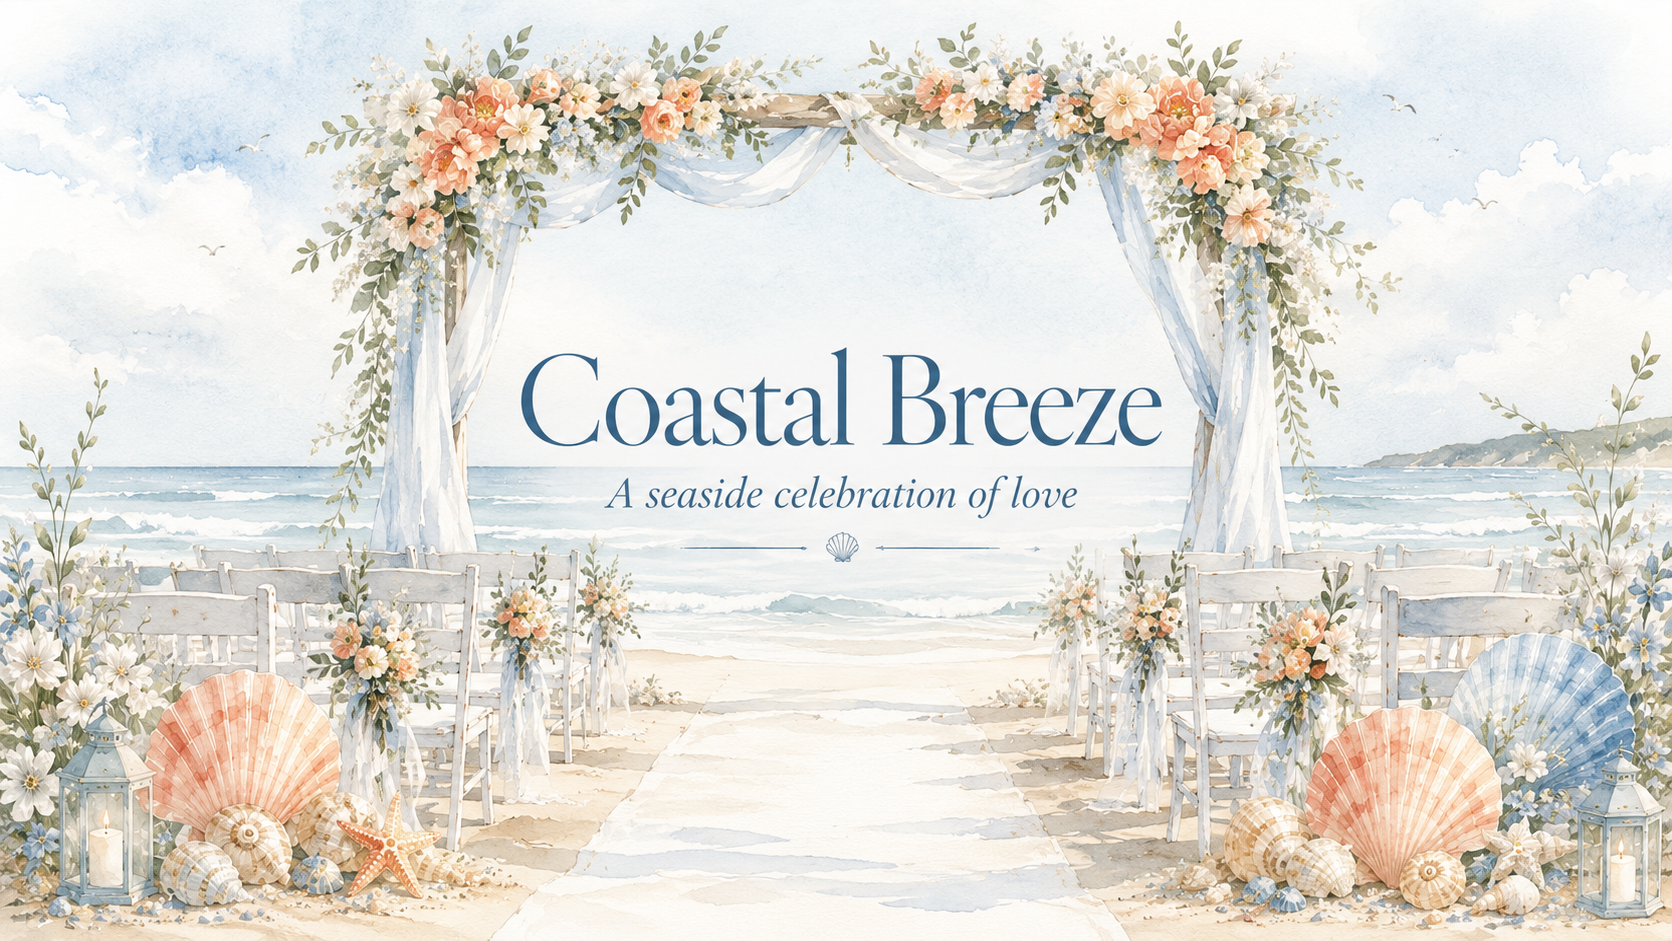
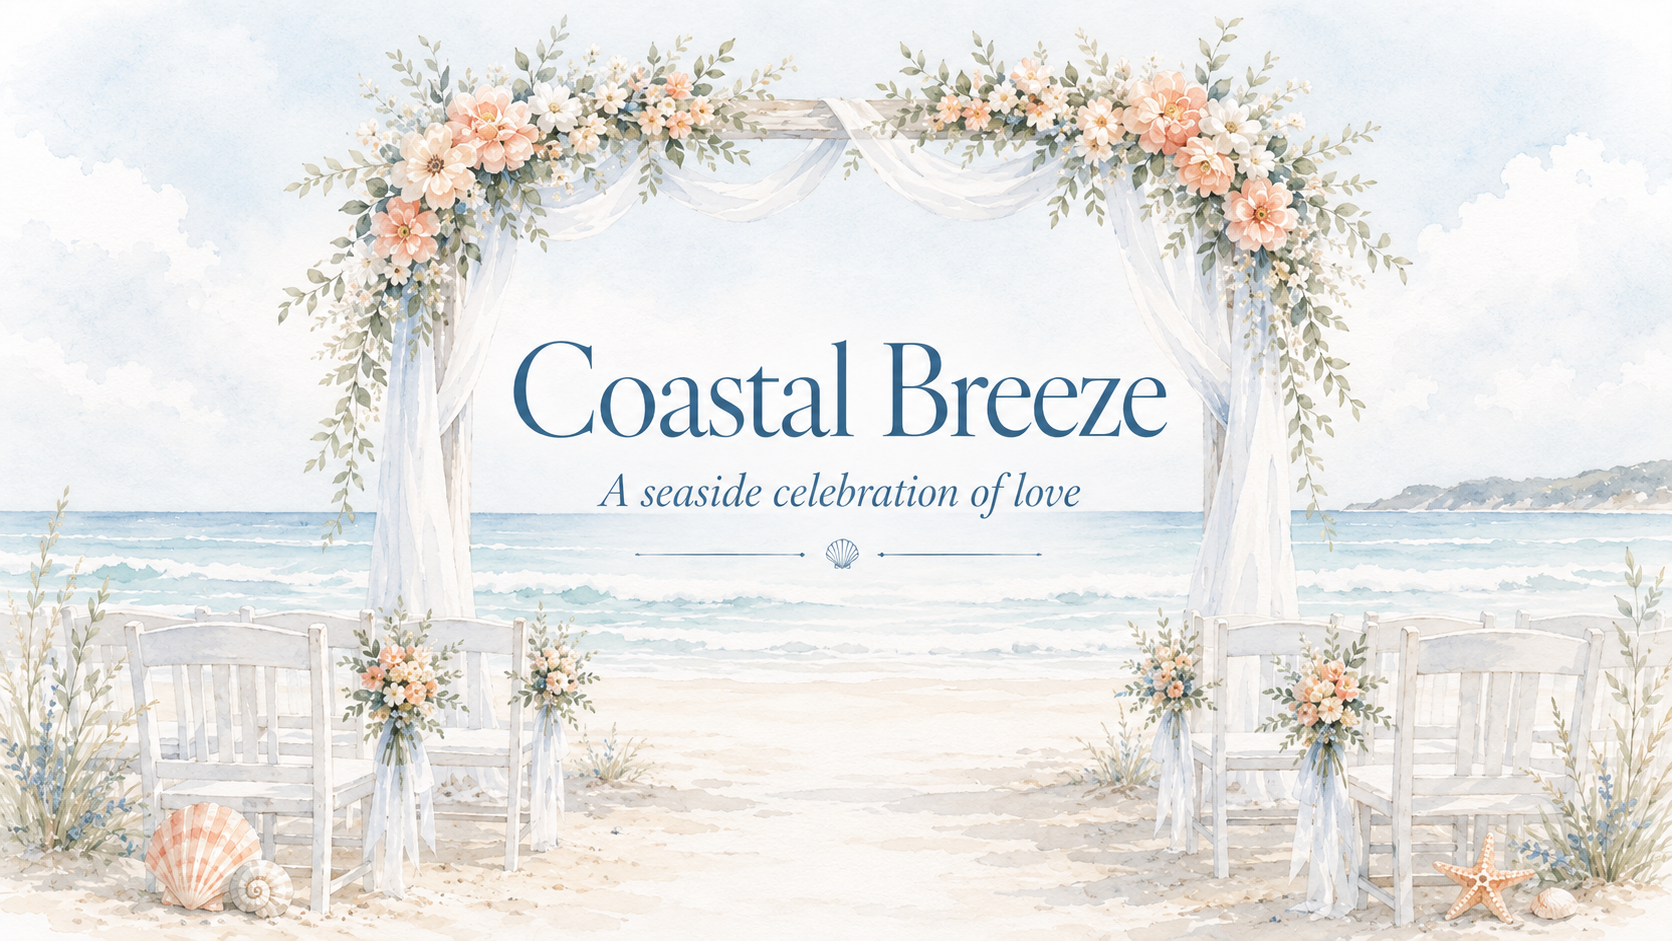
Standardize invitation thumbnails to 16:9 across order flow
Repoint design, pricing, and order flow previews to the new uniform
16:9 thumbnails and update the order flow step 3/4 preview cards to
display them without cropping.

diff --git a/src/styles/OrderFlow.css b/src/styles/OrderFlow.css
@@ -362,10 +362,11 @@
   margin-bottom: 32px;
 }
 .selected-template-banner img {
-  width: 80px;
-  height: 56px;
+  width: 100px;
+  aspect-ratio: 1672 / 941;
   object-fit: cover;
   border-radius: var(--radius-sm);
+  flex-shrink: 0;
 }
 .selected-template-banner h3 {
   font-family: var(--font-display);
@@ -1357,16 +1358,11 @@
   gap: 16px;
 }
 .review-template img {
-  width: 80px;
-  height: 80px;
+  width: 104px;
+  aspect-ratio: 1672 / 941;
   border-radius: 10px;
   object-fit: cover;
-}
-/* The Boarding Pass thumbnail is a wide landscape image — contain it so the
-   whole boarding pass shows instead of being cropped to a square. */
-.review-template img.review-img--wide {
-  object-fit: contain;
-  background: #e3f2fd;
+  flex-shrink: 0;
 }
 .review-template strong {
   display: block;
@@ -1451,7 +1447,7 @@
 .protected-preview-card {
   width: 100%;
   display: grid;
-  grid-template-columns: 82px minmax(0, 1fr) auto;
+  grid-template-columns: 132px minmax(0, 1fr) auto;
   gap: 15px;
   align-items: center;
   text-align: left;
@@ -1473,10 +1469,10 @@
 
 .protected-preview-thumb {
   position: relative;
-  width: 82px;
-  aspect-ratio: 390 / 844;
+  width: 132px;
+  aspect-ratio: 1672 / 941;
   overflow: hidden;
-  border-radius: 13px;
+  border-radius: 12px;
   background: var(--bg-alt);
   border: 1px solid var(--border-light);
   box-shadow: inset 0 0 0 3px rgba(255, 255, 255, 0.72);
@@ -1489,25 +1485,14 @@
   object-fit: cover;
 }
 
-/* Boarding Pass preview is a wide landscape thumbnail — match the frame to its
-   aspect ratio so the whole boarding pass shows instead of a cropped slice. */
-.protected-preview-thumb.protected-preview-thumb--wide {
-  aspect-ratio: 1672 / 941;
-  align-self: center;
-  background: #e3f2fd;
-}
-.protected-preview-thumb img.review-img--wide {
-  object-fit: contain;
-}
-
 .protected-preview-thumb-watermark {
   position: absolute;
-  inset: auto -24px 30px -24px;
-  padding: 4px 0;
-  transform: rotate(-24deg);
-  background: rgba(255, 255, 255, 0.58);
-  color: rgba(45, 42, 38, 0.48);
-  font-size: 0.56rem;
+  inset: auto -24px 8px -24px;
+  padding: 3px 0;
+  transform: rotate(-12deg);
+  background: rgba(255, 255, 255, 0.62);
+  color: rgba(45, 42, 38, 0.5);
+  font-size: 0.54rem;
   font-weight: 700;
   letter-spacing: 0.1em;
   text-align: center;
@@ -2137,7 +2122,7 @@
   margin: 4px 0 18px;
   border-radius: 12px;
   overflow: hidden;
-  aspect-ratio: 16 / 10;
+  aspect-ratio: 1672 / 941;
   background: var(--bg-alt);
 }
 .payment-summary-image img {
@@ -2469,8 +2454,8 @@
   .progress-line { max-width: 36px; }
   .review-grid { grid-template-columns: 1fr; }
   .review-section { padding: 18px 16px; }
-  .protected-preview-card { grid-template-columns: 80px minmax(0, 1fr); }
-  .protected-preview-thumb { width: 80px; }
+  .protected-preview-card { grid-template-columns: 116px minmax(0, 1fr); }
+  .protected-preview-thumb { width: 116px; }
   .protected-preview-action {
     grid-column: 1 / -1;
     width: 100%;

diff --git a/src/pages/OrderFlow.jsx b/src/pages/OrderFlow.jsx
@@ -8,10 +8,11 @@ import registry from '../invitations/registry';
 import { DEFAULT_INVITATION_FONT, INVITATION_FONT_OPTIONS, getInvitationFontOption, normalizeInvitationFont } from '../invitations/fontOptions';
 import { DEFAULT_PRICING_TIER, PRICING_TIERS, getPricingTier, normalizePricingTier, tierAllows, getTierDisabledFields } from '../lib/pricingTiers';
 import { migrateGuestPolicyFields } from '../lib/guestPolicyFields';
-import coastalSplashPreview from '../assets/coastal/coastal-closed-door.webp';
-import fountainHero1Preview from '../assets/Fountain Reverie/thumbnail1.png';
-import fountainHero2Preview from '../assets/Fountain Reverie/thumbnail2.png';
-import boardingPassPreview from '../assets/boardingPass/thumbnail2.png';
+import coastalSplashPreview from '../assets/coastal/thumbnail.png';
+import fountainHero1Preview from '../assets/Fountain Reverie/thumbnail3.png';
+import fountainHero2Preview from '../assets/Fountain Reverie/thumbnail4.png';
+import boardingPassPreview from '../assets/boardingPass/thumbnail.png';
+import GardenPavilionPreview from '../assets/gardenPavilion/thumbnail.png';
 import '../styles/OrderFlow.css';
 
 const API = import.meta.env.VITE_API_URL || '/api';
@@ -178,7 +179,7 @@ const TEMPLATE_PREVIEW_IMAGES = {
   'coastal-breeze': coastalSplashPreview,
   'fountain-reverie-v1': fountainHero1Preview,
   'fountain-reverie-v2': fountainHero2Preview,
-  'gazebo-garden': '/assets/gazebo-watercolor-poster1.jpg',
+  'gazebo-garden': GardenPavilionPreview,
   'boarding-pass': boardingPassPreview,
   'theater': 'https://images.unsplash.com/photo-1503095396549-807759245b35?w=600&h=400&fit=crop&q=80',
 };
@@ -188,7 +189,7 @@ const TEMPLATE_PREVIEW_IMAGES = {
 const TEMPLATE_PREVIEW_CARDS = {
   'coastal-breeze': {
     overlay: 'linear-gradient(135deg, rgba(31,95,143,0.16), rgba(236,134,111,0.12))',
-    previewText: 'Coastal Breeze',
+    // previewText: 'Coastal Breeze',
   },
 };
 
@@ -1609,7 +1610,6 @@ export default function OrderFlow() {
                   <img
                     src={selectedTemplate.previewImage}
                     alt={selectedTemplate.name}
-                    className={selectedTemplate.slug === 'boarding-pass' ? 'review-img--wide' : ''}
                   />
                   <div>
                     <strong>{selectedTemplate.name}</strong>
@@ -1625,8 +1625,8 @@ export default function OrderFlow() {
                   className="protected-preview-card"
                   onClick={() => setPreviewOpen(true)}
                 >
-                  <span className={`protected-preview-thumb ${selectedTemplate.slug === 'boarding-pass' ? 'protected-preview-thumb--wide' : ''}`} aria-hidden="true">
-                    {selectedTemplate.previewImage && <img src={selectedTemplate.previewImage} alt="" className={selectedTemplate.slug === 'boarding-pass' ? 'review-img--wide' : ''} />}
+                  <span className="protected-preview-thumb" aria-hidden="true">
+                    {selectedTemplate.previewImage && <img src={selectedTemplate.previewImage} alt="" />}
                     <span className="protected-preview-thumb-watermark">Preview</span>
                   </span>
                   <span className="protected-preview-copy">

diff --git a/src/components/Pricing.jsx b/src/components/Pricing.jsx
@@ -3,10 +3,11 @@ import { Link } from 'react-router-dom';
 import { PRICING_TIERS } from '../lib/pricingTiers';
 import '../styles/Pricing.css';
 import useReveal from '../hooks/useReveal';
-import coastalSplashPreview from '../assets/coastal/coastal-closed-door.webp';
-import fountainHero1Preview from '../assets/Fountain Reverie/thumbnail1.png';
-import fountainHero2Preview from '../assets/Fountain Reverie/thumbnail2.png';
-import boardingPassPreview from '../assets/boardingPass/thumbnail2.png';
+import coastalSplashPreview from '../assets/coastal/thumbnail.png';
+import fountainHero1Preview from '../assets/Fountain Reverie/thumbnail3.png';
+import fountainHero2Preview from '../assets/Fountain Reverie/thumbnail4.png';
+import boardingPassPreview from '../assets/boardingPass/thumbnail.png';
+import GardenPavilionPreview from '../assets/gardenPavilion/thumbnail.png';
 
 const API = import.meta.env.VITE_API_URL || '/api';
 
@@ -16,7 +17,7 @@ const DEMO_PREVIEW_IMAGES = {
   'Coastal Breeze': coastalSplashPreview,
   'Fountain Reverie I': fountainHero1Preview,
   'Fountain Reverie II': fountainHero2Preview,
-  'Garden Pavilion': '/assets/gazebo-watercolor-poster1.jpg',
+  'Garden Pavilion': GardenPavilionPreview,
   'Theater': 'https://images.unsplash.com/photo-1503095396549-807759245b35?w=300&h=300&fit=crop&q=80',
   'Boarding Pass': boardingPassPreview,
 };

diff --git a/src/components/Designs.jsx b/src/components/Designs.jsx
@@ -1,8 +1,9 @@
 import { useNavigate } from 'react-router-dom';
 import coastalSplashPreview from '../assets/coastal/thumbnail.png';
-import fountainHero1Preview from '../assets/Fountain Reverie/thumbnail1.png';
-import fountainHero2Preview from '../assets/Fountain Reverie/thumbnail2.png';
-import boardingPassPreview from '../assets/boardingPass/thumbnail2.png';
+import fountainHero1Preview from '../assets/Fountain Reverie/thumbnail3.png';
+import fountainHero2Preview from '../assets/Fountain Reverie/thumbnail4.png';
+import boardingPassPreview from '../assets/boardingPass/thumbnail.png';
+import GardenPavilionPreview from '../assets/gardenPavilion/thumbnail.png';
 import '../styles/Designs.css';
 import useReveal from '../hooks/useReveal';
 
@@ -18,8 +19,9 @@ const designs = [
     previewClassName: 'design-preview-text--gazebo',
     category: 'launch',
     description: 'Watercolor garden elegance with soft florals and romantic details.',
-    image: '/assets/gazebo-watercolor-poster1.jpg',
+    image: GardenPavilionPreview,
     overlay: 'linear-gradient(135deg, rgba(91,125,68,0.12), rgba(255,255,245,0.22))',
+    hidePreviewText: true,
     badge: 'Available',
     badgeClass: 'badge-launch',
     demoPath: '/demo/gazebo-garden',